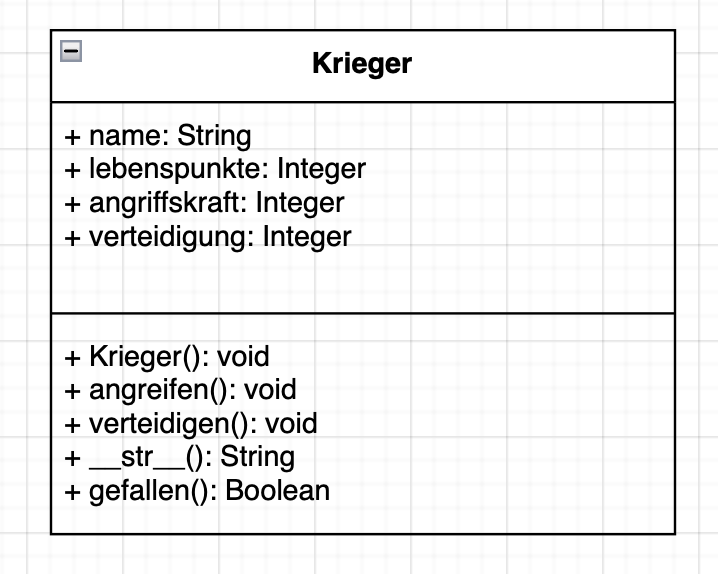
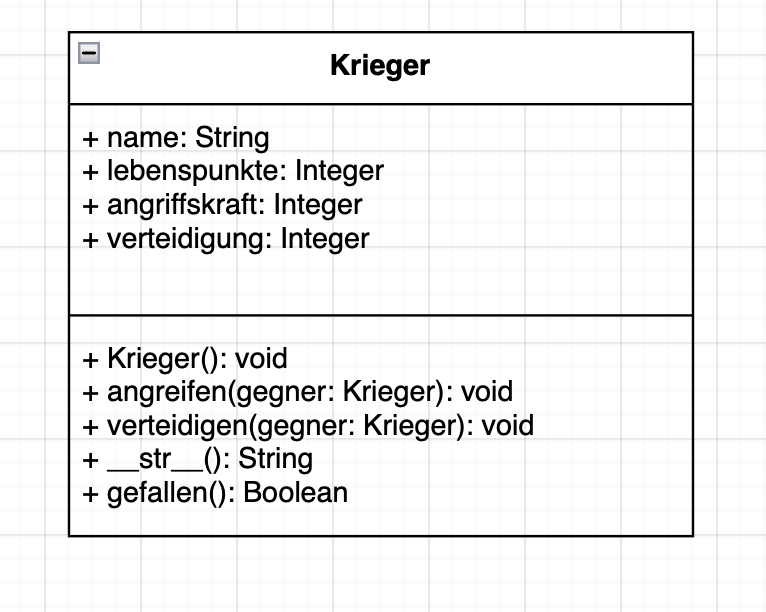
added einfuehrung3.py

Changed region(s): [[0.0613, 0.0296, 0.9499, 0.9477]]

diff --git a/einfuehrung2.py b/einfuehrung2.py
@@ -1,19 +1,35 @@
+import random
+
+def kampfsimulation(krieger1, krieger2):
+    while True :
+        krieger = [krieger1, krieger2]
+        am_zug = random.randint(0, 1)
+        angreifender_krieger = krieger[am_zug]
+        krieger.remove(angreifender_krieger)
+        verteidigender_krieger = krieger[0]
+        angreifender_krieger.angreifen(verteidigender_krieger)
+        verteidigender_krieger.verteidigen(angreifender_krieger)
+        print(angreifender_krieger)
+        print(verteidigender_krieger)
+        if verteidigender_krieger.gefallen():
+            break
+
 class Krieger:
     
     def __init__(self, name, lebenspunkte, angriffskraft, verteidigung):
         self.name = name
         self.lebenspunkte = lebenspunkte
         self.angriffskraft = angriffskraft
-        self.verteitigung = verteidigung
+        self.verteidigung = verteidigung
 
     def __str__(self):
-        return f"Name: {self.name} | Lebenspunkte: {self.lebenspunkte} | Angriffskraft: {self.angriffskraft} | Verteidigung: {self.verteitigung}"
+        return f"Name: {self.name} | Lebenspunkte: {self.lebenspunkte} | Angriffskraft: {self.angriffskraft} | Verteidigung: {self.verteidigung}"
 
     def angreifen(self, gegner):
         print(f"{self.name} attackiert {gegner.name} mit einer Angfrifsstärke von {self.angriffskraft}!")
 
-    def verteitigen(self, gegner):
-        schaden = gegner.angriffskraft - 0.5 * self.verteitigung
+    def verteidigen(self, gegner):
+        schaden = gegner.angriffskraft - 0.5 * self.verteidigung
         self.lebenspunkte -= schaden
         print(f"{self.name} verteidigt sich gegen {gegner.name} und nimmt {schaden} Schaden!")
         if self.gefallen():
@@ -26,20 +42,4 @@ class Krieger:
 herbert = Krieger("Sir Herbert", 100, 80, 35)
 arthur = Krieger("King Arthur", 90, 65, 95)
 
-print(herbert)
-print(arthur)
-
-print("#####################")
-herbert.angreifen(arthur)
-arthur.verteitigen(herbert)
-herbert.angreifen(arthur)
-arthur.verteitigen(herbert)
-herbert.angreifen(arthur)
-arthur.verteitigen(herbert)
-print("#####################")
-
-print(herbert)
-print(arthur)
-
-# print(herbert)
-# print(arthur)
+kampfsimulation(herbert, arthur)

diff --git a/einfuehrung3.py b/einfuehrung3.py
@@ -1,0 +1,37 @@
+class Rechteck:
+
+    def __init__(self, laenge, breite):
+        self.laenge = laenge
+        self.breite = breite
+    
+    def getFlaeche(self):
+        return self.laenge * self.breite
+    
+    def getUmfang(self):
+        return 2 * (self.laenge + self.breite)
+    
+    def visualizeRechteck(self):
+        print("Fläche visualisiert:")
+        for i in range(self.breite + 1):
+            for j in range(self.laenge + 1):
+                zeichen = "#"
+                if i == 0:
+                    zeichen = j
+                elif j == 0:
+                    zeichen = i
+                if zeichen == 0:
+                    zeichen = " "
+                print(zeichen, end=" ")
+            print()
+
+mein_rechteck = Rechteck(3, 5)
+meine_flaeche = mein_rechteck.getFlaeche()
+mein_umfang = mein_rechteck.getUmfang()
+print("Fläche:", meine_flaeche, "Umfang:", mein_umfang)
+mein_rechteck.visualizeRechteck()
+
+dein_rechteck = Rechteck(6, 5)
+deine_flaeche = dein_rechteck.getFlaeche()
+dein_umfang = dein_rechteck.getUmfang()
+print("Fläche:", deine_flaeche, "Umfang:", dein_umfang)
+dein_rechteck.visualizeRechteck()
